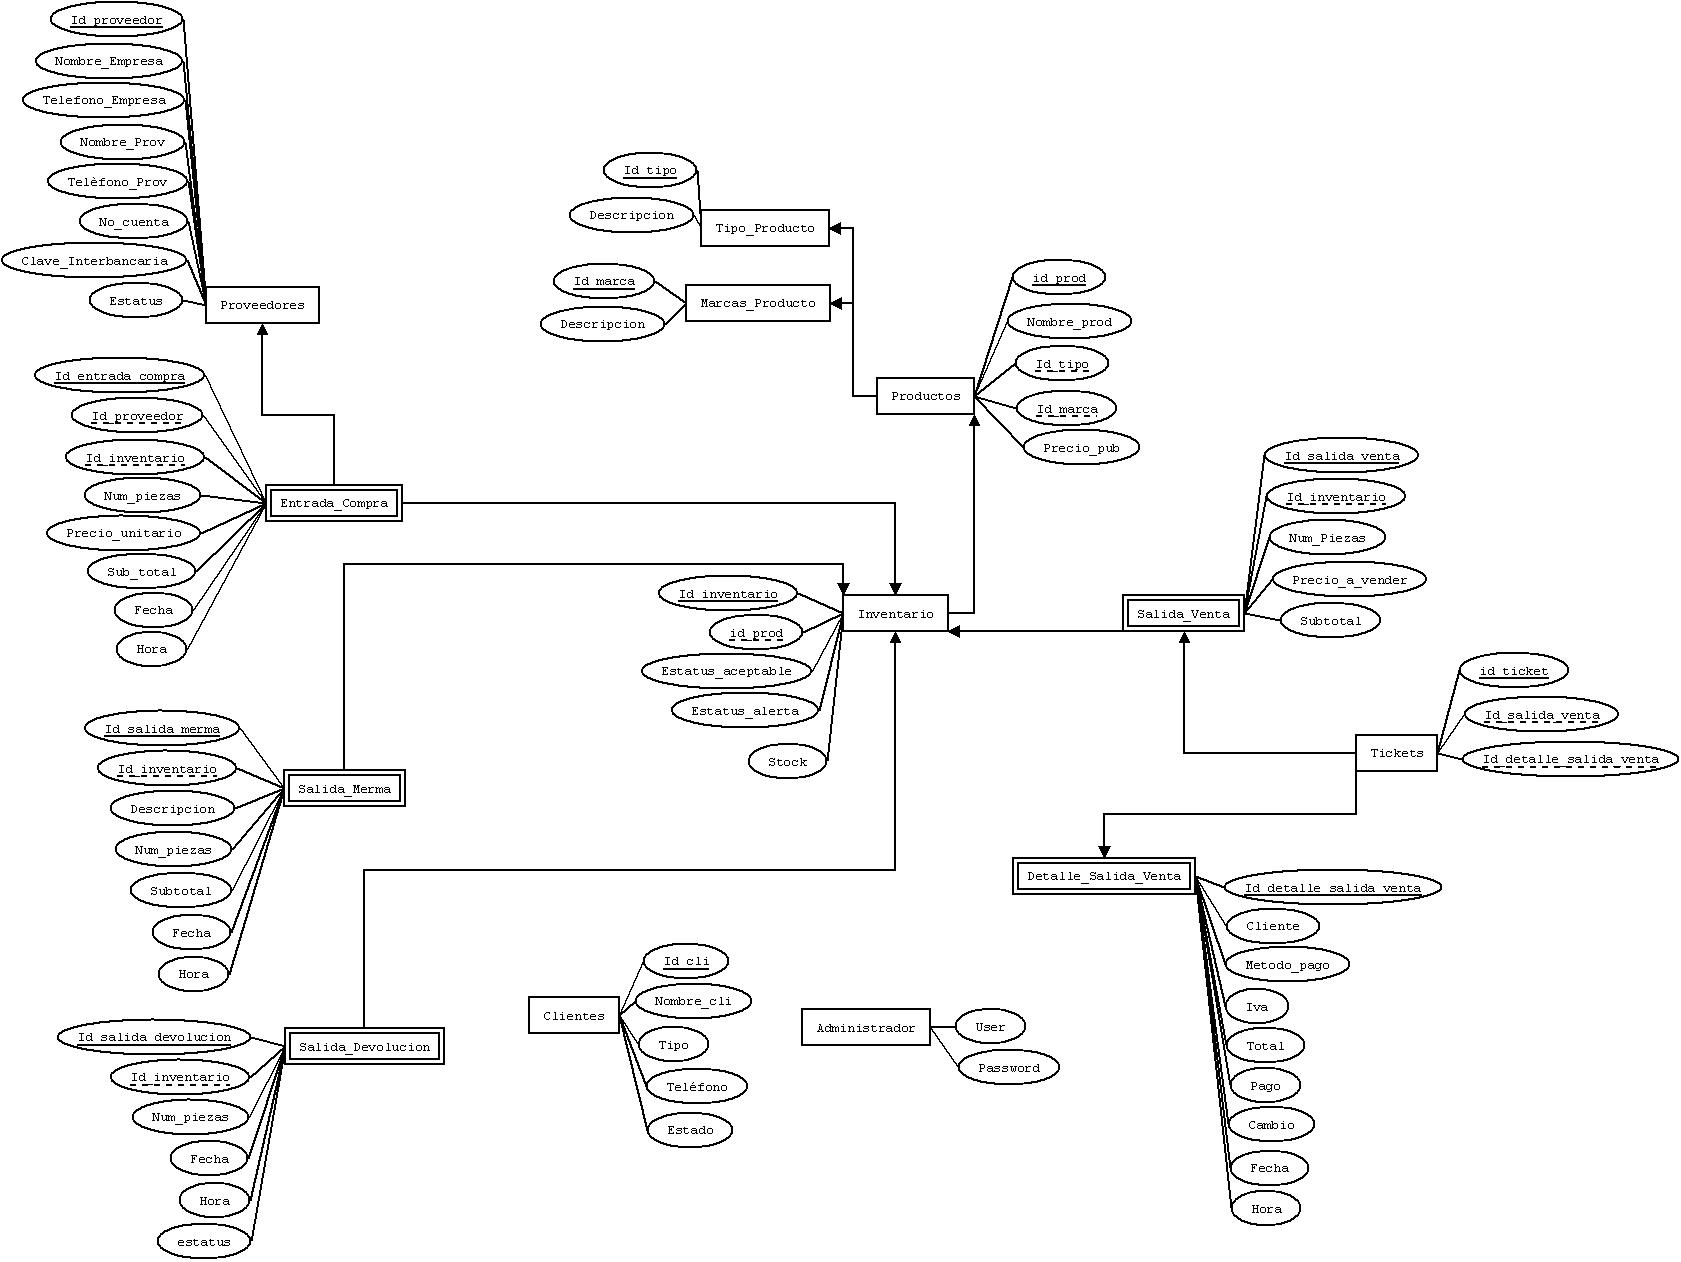
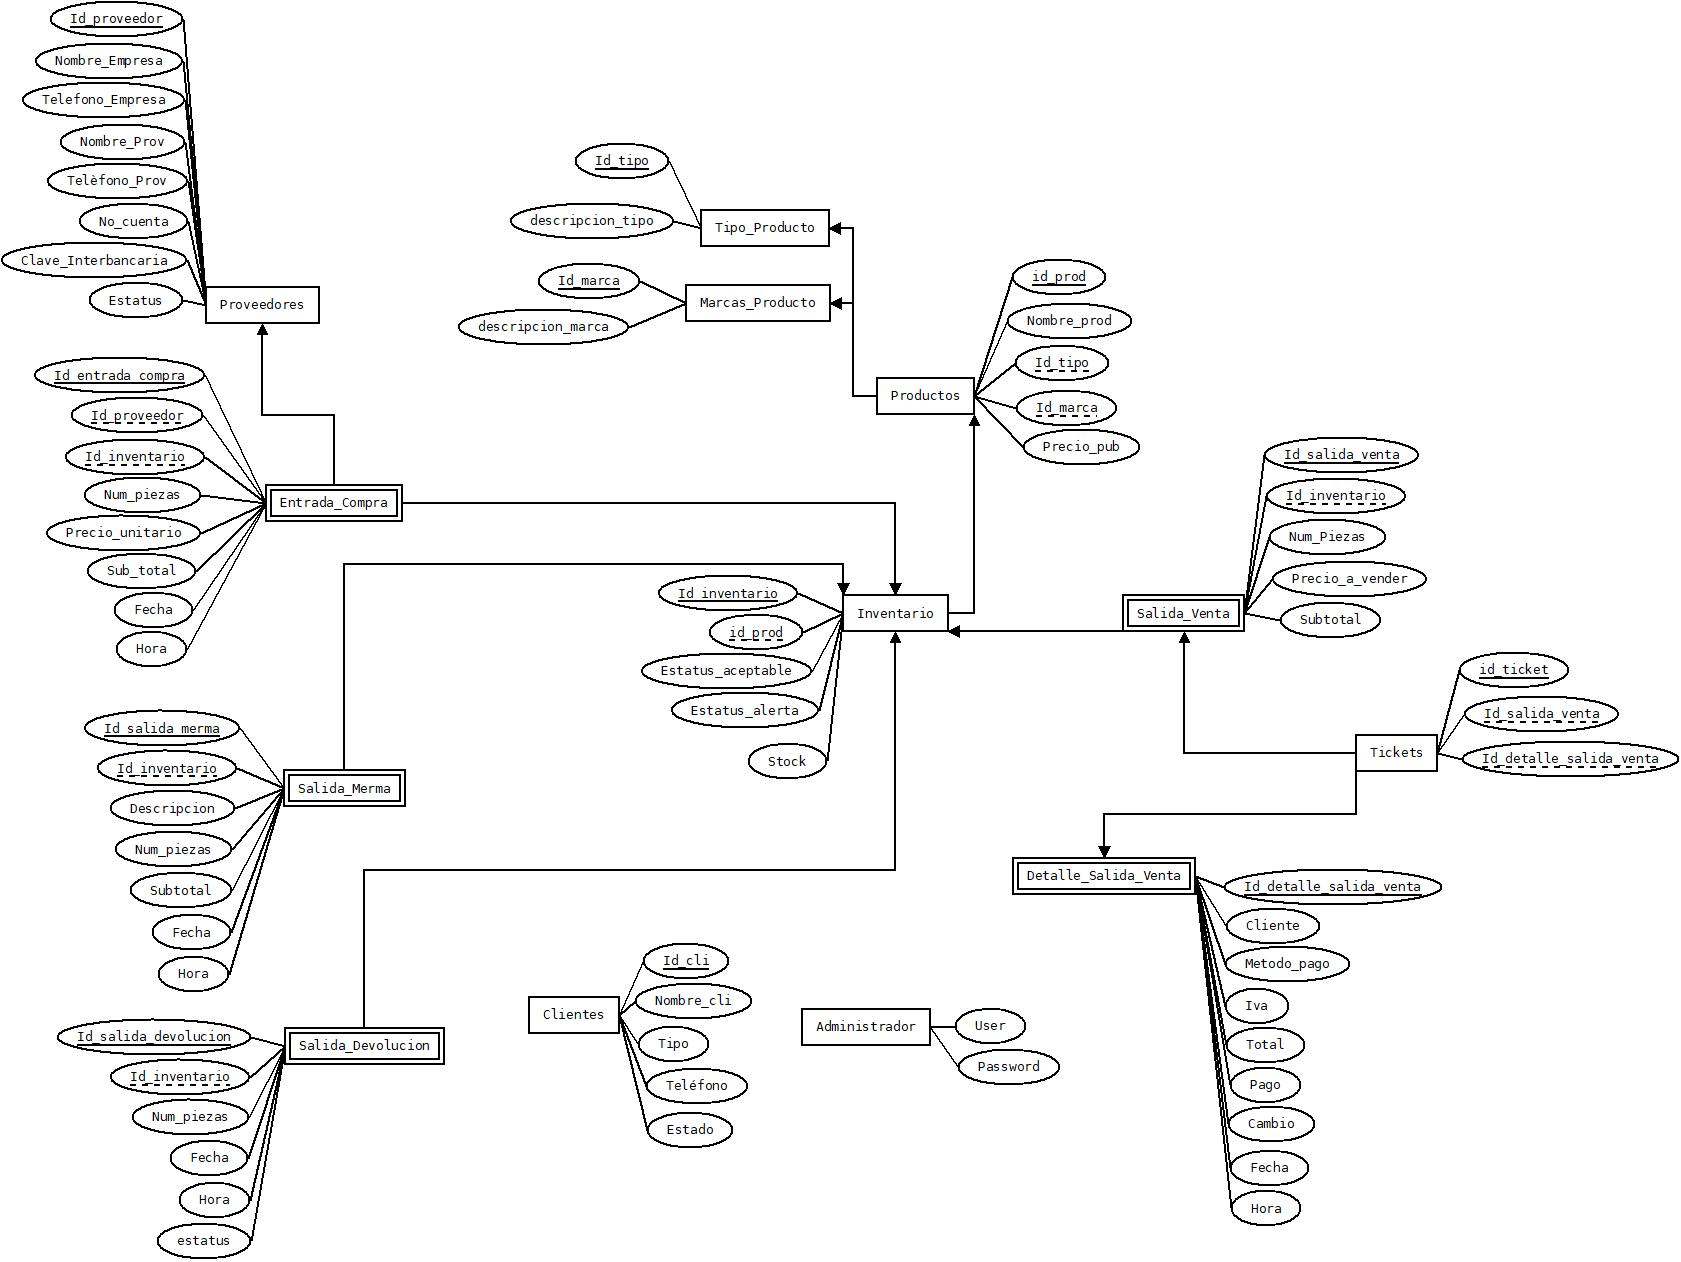
Cambios de atributos tabla marcas y tipo productos.

diff --git a/Views/dist/js/pages/Productos.js b/Views/dist/js/pages/Productos.js
@@ -1,12 +1,10 @@
 const form_agregar_producto = document.getElementById('frm_registro_producto');
 const form_editar_producto = document.getElementById('frm_editar_producto');
-
 var tabla_productos;
 var id_producto;
-var opcion;
 
 //---------- Función para llenar Tabla  de Productos. ---------//
-async function init() {
+async function tab_Productos() {
     tabla_productos = $("#TablaProductos").DataTable({
         "responsive": true,
         "autoWidth": false,
@@ -21,9 +19,9 @@ async function init() {
         "columns": [
             {"data": "id_producto"},
             {"data": "nombre_producto"},
-            {"data": "id_tipo"},
-            {"data": "id_marca"},
             {"data": "precio_publico"},
+            {"data": "descripcion_tipo"},
+            {"data": "descripcion_marca"},
             {
             "defaultContent": "<div class='text-center'><div class='btn-group'><button class='btn btn-info btn-sm btnEditar'><i class='fas fa-edit'></i></button><button class='btn btn-danger btn-sm btnBorrar'><i class='fas fa-trash-alt'></i></button></div></div>"
               
@@ -31,7 +29,7 @@ async function init() {
         ]
     });
 }
-init();
+tab_Productos();
 //---------- Función para llenar Select de Tipo de Productos. (en Formularios de Registro y Editar)---------//
 async function llenar_Tipo_Producto(){
     try {
@@ -50,12 +48,13 @@ async function llenar_Tipo_Producto(){
         var selectTipoProductoEdi = document.getElementById('tipo_producto_editar');
         for(item of resjson){
             let option = document.createElement('option');
-            let option1 = document.createElement('option');
             option.value = item.id_tipo;
-            option.text = item.descripcion;
+            option.text = item.descripcion_tipo;
             selectTipoProducto.appendChild(option);
+
+            let option1 = document.createElement('option');
             option1.value = item.id_tipo;
-            option1.text = item.descripcion;
+            option1.text = item.descripcion_tipo;
             selectTipoProductoEdi.appendChild(option1);
         }
         
@@ -84,10 +83,11 @@ async function llenar_Marca_Producto(){
             let optionM1 = document.createElement('option');
             let optionM2 = document.createElement('option');
             optionM1.value = item.id_marca;
-            optionM1.text = item.descripcion;
+            optionM1.text = item.descripcion_marca;
             selectMarcaProducto.appendChild(optionM1);
+
             optionM2.value = item.id_marca;
-            optionM2.text = item.descripcion;
+            optionM2.text = item.descripcion_marca;
             selectMarcaProductoEdi.appendChild(optionM2);
         }
         

diff --git a/Models/ProductosModel.php b/Models/ProductosModel.php
@@ -5,10 +5,10 @@ class ProductoModelo
     private static $INSERTAR_PRODUCTO = "INSERT INTO productos (nombre_producto, id_tipo, id_marca, precio_publico) values (?, ?, ?, ?)";
     private static $EDITAR_PRODUCTO = "UPDATE productos set nombre_producto = ?, id_tipo = ?, id_marca =?, precio_publico=? WHERE id_producto = ?";
     private static $BORRAR_PRODUCTO = "DELETE FROM productos WHERE id_producto = ?";
-    private static $SELECT_ALL_PRODUCTO = "SELECT * FROM productos";
     private static $VALIDAR_PRODUCTO_EXISTENTE = "SELECT * FROM productos WHERE nombre_producto = ? ";
-    private static $SELECT_ALL_TIPO_PRODUCTO = "SELECT * FROM tipo_producto ";
-    private static $SELECT_ALL_MARCA_PRODUCTO = "SELECT * FROM marcas_producto ";
+    private static $SELECT_ALL_TIPO_PRODUCTO = "SELECT * FROM tipo_producto";
+    private static $SELECT_ALL_MARCA_PRODUCTO = "SELECT * FROM marcas_producto";
+    private static $SELECT_PRODUCTOS_TIPO_MARCA = "SELECT p.id_producto, p.nombre_producto, p.precio_publico, tp.descripcion_tipo, mp.descripcion_marca FROM productos p INNER JOIN tipo_producto tp ON p.id_tipo=tp.id_tipo INNER JOIN marcas_producto mp ON p.id_marca=mp.id_marca";
 
 //-------- FUNCIÓN PARA AGREGAR TIPO DE PRODUCTO -------//
     public static function agregar_productos($producto)
@@ -89,7 +89,7 @@ class ProductoModelo
              $conexion = new Conexion();
              $conn = $conexion->getConexion();
  
-             $pst = $conn->prepare(self::$SELECT_ALL_PRODUCTO);
+             $pst = $conn->prepare(self::$SELECT_PRODUCTOS_TIPO_MARCA);
              $pst->execute();
  
              $productos = $pst->fetchAll();

diff --git a/Views/FormularioProductos/TablaProductos.php b/Views/FormularioProductos/TablaProductos.php
@@ -17,9 +17,9 @@
                                         <tr class="table table-dark">
                                             <th>ID</th>
                                             <th>Nombre de Producto</th>
+                                            <th>Precio público</th>
                                             <th>Tipo de Producto</th>
                                             <th>Marca de Producto</th>
-                                            <th>Precio Público</th>
                                         </tr>
                                     </thead>
                                 </table>
